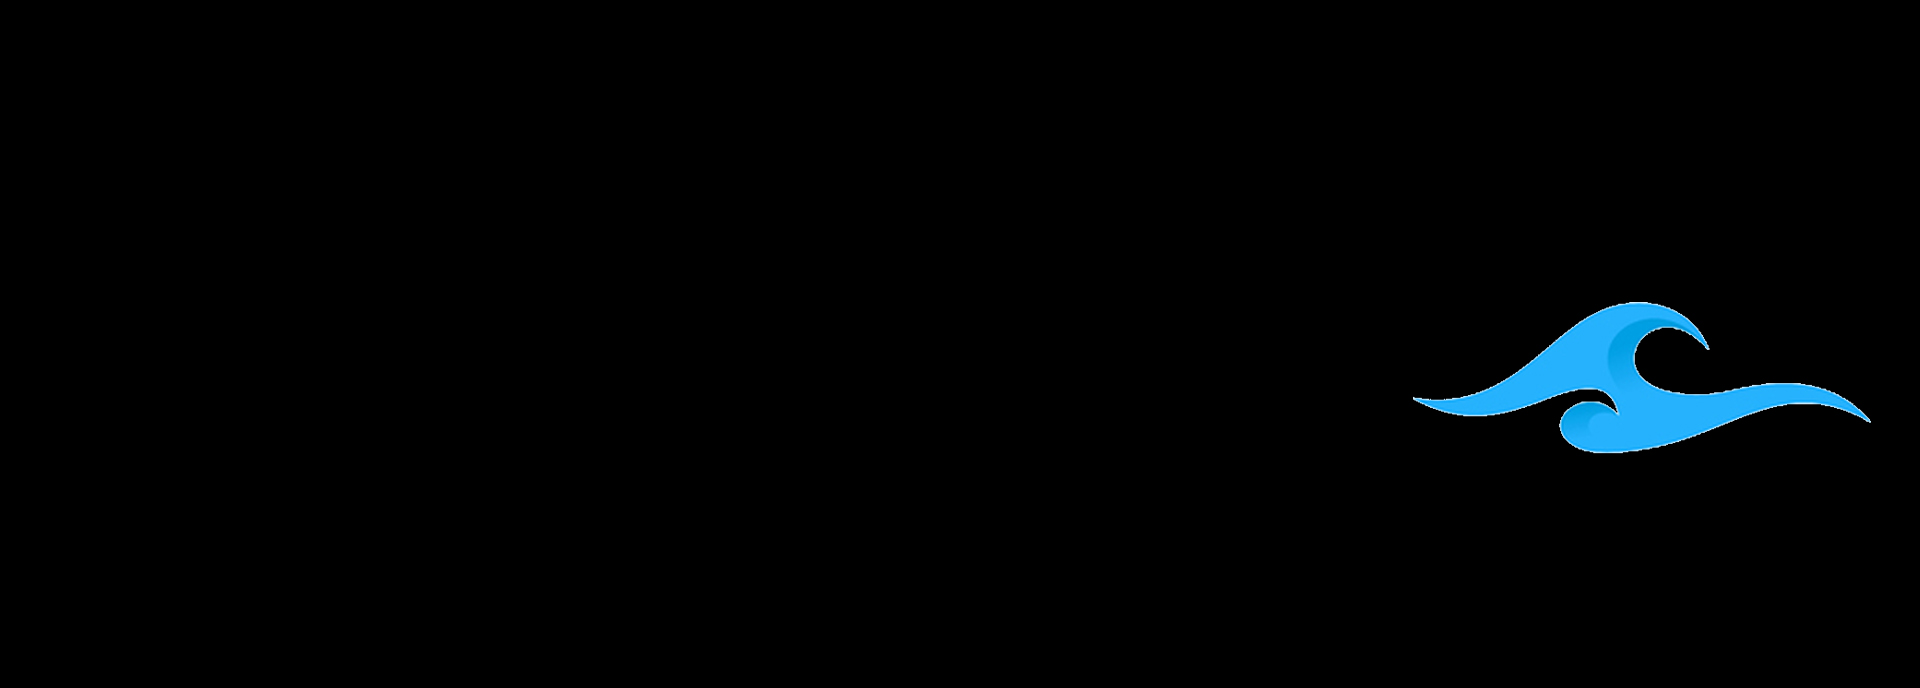
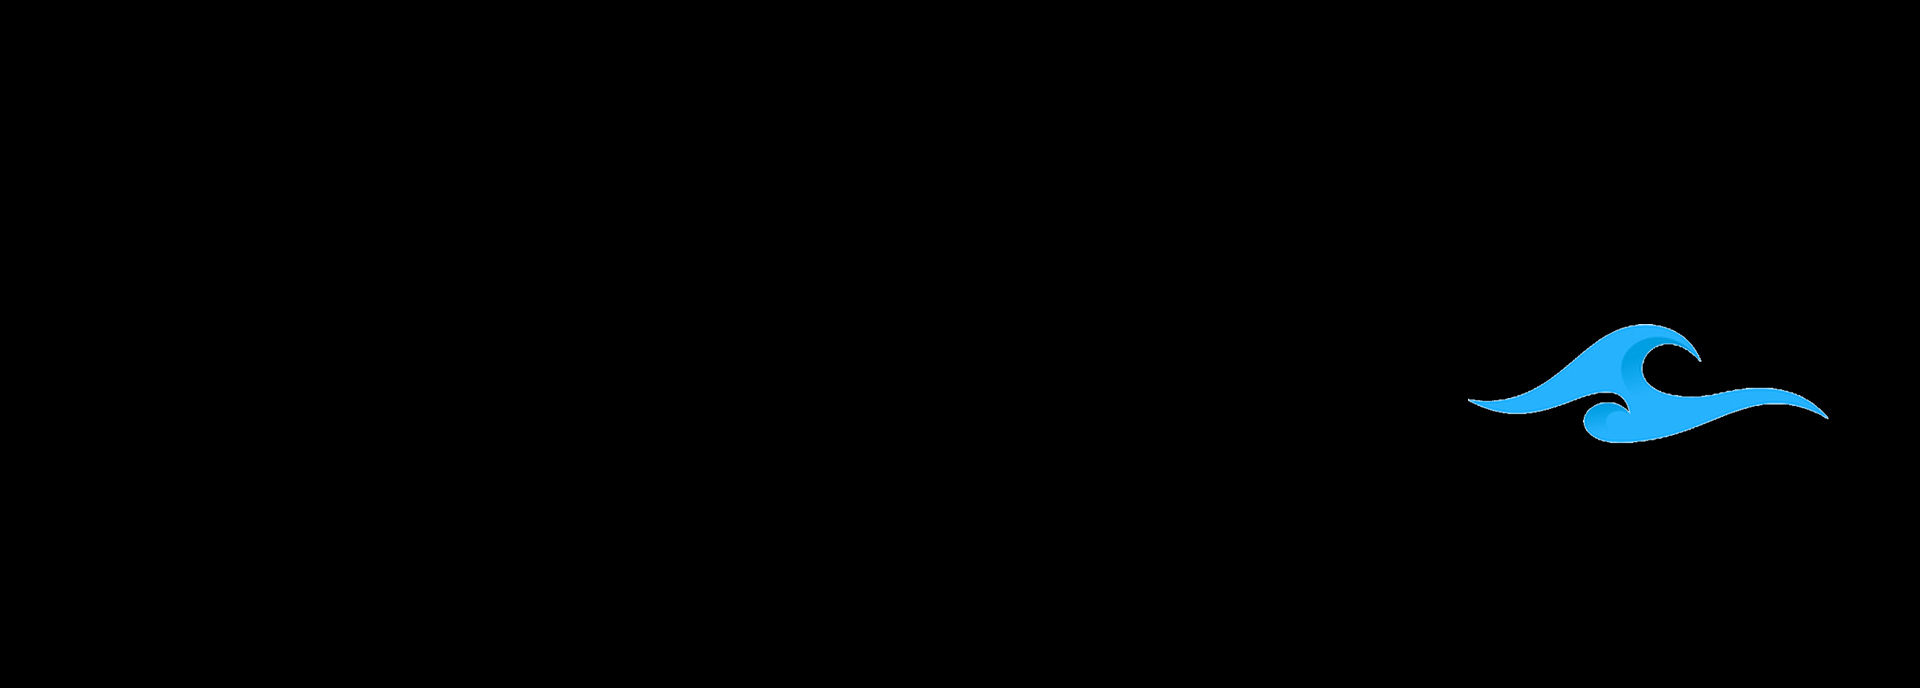
Cambios en la portada y en el color principal

Changed region(s): [[0.7188, 0.4273, 0.9688, 0.6715]]

diff --git a/css/estilo.css b/css/estilo.css
@@ -1,14 +1,14 @@
 @charset "UTF-8";
 .sLettering {
-  border: 3px solid #106eea;
+  border: 3px solid #26b2fd;
 }
 
 .SdisenioGrafico {
-  border: 3px solid #106eea;
+  border: 3px solid #26b2fd;
 }
 
 .sIlustracion {
-  border: 3px solid #106eea;
+  border: 3px solid #26b2fd;
 }
 
 /*--------------------------------------------------------------
@@ -20,7 +20,7 @@ body {
 }
 
 a {
-  color: #106eea;
+  color: #26b2fd;
 }
 
 a:hover {
@@ -55,7 +55,7 @@ h1, h2, h3, h4, h5, h6 {
   position: fixed;
   top: calc(50% - 30px);
   left: calc(50% - 30px);
-  border: 6px solid #106eea;
+  border: 6px solid #26b2fd;
   border-top-color: #e2eefd;
   border-radius: 50%;
   width: 60px;
@@ -98,7 +98,7 @@ h1, h2, h3, h4, h5, h6 {
   width: 40px;
   height: 40px;
   border-radius: 4px;
-  background: #106eea;
+  background: #26b2fd;
   color: #fff;
   transition: all 0.4s;
 }
@@ -119,7 +119,7 @@ h1, h2, h3, h4, h5, h6 {
 # Top Bar
 --------------------------------------------------------------*/
 #topbar {
-  background: #106eea;
+  background: #26b2fd;
   height: 40px;
   font-size: 14px;
   transition: all 0.5s;
@@ -226,7 +226,7 @@ h1, h2, h3, h4, h5, h6 {
   height: 2px;
   bottom: -5px;
   left: 0;
-  background-color: #106eea;
+  background-color: #26b2fd;
   visibility: hidden;
   width: 0px;
   transition: all 0.3s ease-in-out 0s;
@@ -242,21 +242,21 @@ h1, h2, h3, h4, h5, h6 {
   font-family: "Open Sans", sans-serif;
 }
 .nav-menu a:hover {
-  color: #106eea;
+  color: #26b2fd;
 }
 .nav-menu a:hover:before {
   visibility: visible;
   width: 100%;
 }
 .nav-menu li:hover > a {
-  color: #106eea;
+  color: #26b2fd;
 }
 .nav-menu li:hover > a:before {
   visibility: visible;
   width: 100%;
 }
 .nav-menu .active > a {
-  color: #106eea;
+  color: #26b2fd;
 }
 .nav-menu .active > a:before {
   visibility: visible;
@@ -283,13 +283,13 @@ h1, h2, h3, h4, h5, h6 {
   color: #062b5b;
 }
 .nav-menu .drop-down ul a:hover {
-  color: #106eea;
+  color: #26b2fd;
 }
 .nav-menu .drop-down ul .active > a {
-  color: #106eea;
+  color: #26b2fd;
 }
 .nav-menu .drop-down ul li:hover > a {
-  color: #106eea;
+  color: #26b2fd;
 }
 .nav-menu .drop-down:hover > ul {
   opacity: 1;
@@ -339,7 +339,7 @@ h1, h2, h3, h4, h5, h6 {
   text-align: right;
 }
 .mobile-nav-toggle i {
-  color: #106eea;
+  color: #26b2fd;
 }
 
 .mobile-nav {
@@ -373,15 +373,15 @@ h1, h2, h3, h4, h5, h6 {
   outline: none;
 }
 .mobile-nav a:hover {
-  color: #106eea;
+  color: #26b2fd;
   text-decoration: none;
 }
 .mobile-nav .active > a {
-  color: #106eea;
+  color: #26b2fd;
   text-decoration: none;
 }
 .mobile-nav li:hover > a {
-  color: #106eea;
+  color: #26b2fd;
   text-decoration: none;
 }
 .mobile-nav .drop-down > a {
@@ -471,7 +471,7 @@ h1, h2, h3, h4, h5, h6 {
   font-family: "Poppins", sans-serif;
 }
 #portada h1 span {
-  color: #106eea;
+  color: #26b2fd;
 }
 #portada h2 {
   color: #fff;
@@ -490,7 +490,7 @@ h1, h2, h3, h4, h5, h6 {
   border-radius: 4px;
   transition: 0.5s;
   color: #fff;
-  background: #106eea;
+  background: #26b2fd;
 }
 #portada .btn-get-started:hover {
   background: #3b8af2;
@@ -506,7 +506,7 @@ h1, h2, h3, h4, h5, h6 {
   font-weight: 600;
 }
 #portada .btn-watch-video i {
-  color: #106eea;
+  color: #26b2fd;
   font-size: 32px;
   position: absolute;
   left: 0;
@@ -514,7 +514,7 @@ h1, h2, h3, h4, h5, h6 {
   transition: 0.3s;
 }
 #portada .btn-watch-video:hover {
-  color: #106eea;
+  color: #26b2fd;
 }
 #portada .btn-watch-video:hover i {
   color: #3b8af2;
@@ -579,7 +579,7 @@ section {
   padding: 8px 20px;
   margin: 0;
   background: #e7f1fd;
-  color: #106eea;
+  color: #26b2fd;
   display: inline-block;
   text-transform: uppercase;
   border-radius: 50px;
@@ -590,7 +590,7 @@ section {
   font-weight: 700;
 }
 .section-title h3 span {
-  color: #106eea;
+  color: #26b2fd;
 }
 .section-title p {
   margin: 15px auto 0 auto;
@@ -684,7 +684,7 @@ section {
 
 .servicio .box h4 {
   font-size: 36px;
-  color: #106eea;
+  color: #26b2fd;
   font-weight: 600;
   font-family: "Poppins", sans-serif;
   margin-bottom: 20px;
@@ -716,7 +716,7 @@ section {
 }
 
 .servicio .box ul i {
-  color: #106eea;
+  color: #26b2fd;
   font-size: 18px;
   padding-right: 4px;
 }
@@ -728,7 +728,7 @@ section {
 
 .servicio .featured h3 {
   color: #fff;
-  background: #106eea;
+  background: #26b2fd;
 }
 
 .servicio .advanced {
@@ -740,7 +740,7 @@ section {
   z-index: 1;
   font-size: 14px;
   padding: 1px 0 3px 0;
-  background: #106eea;
+  background: #26b2fd;
   color: #fff;
 }
 
@@ -793,7 +793,7 @@ section {
   font-size: 24px;
   padding: 20px;
   margin-right: 15px;
-  color: #106eea;
+  color: #26b2fd;
   border-radius: 50px;
 }
 .noticias .content ul h5 {
@@ -918,7 +918,7 @@ section {
 }
 
 .valoraciones .owl-dot.active {
-  background-color: #106eea !important;
+  background-color: #26b2fd !important;
 }
 
 @media (min-width: 1024px) {
@@ -955,13 +955,13 @@ section {
   transition: all 0.3s ease-in-out;
 }
 .portfolio #portfolio-flters li:hover {
-  color: #106eea;
+  color: #26b2fd;
 }
 .portfolio #portfolio-flters li:last-child {
   margin-right: 0;
 }
 .portfolio #portfolio-flters li.filter-active {
-  color: #106eea;
+  color: #26b2fd;
 }
 .portfolio .portfolio-item {
   margin-bottom: 30px;
@@ -996,7 +996,7 @@ section {
   color: #3c3c3c;
 }
 .portfolio .portfolio-item .portfolio-info .preview-link:hover {
-  color: #106eea;
+  color: #26b2fd;
 }
 .portfolio .portfolio-item .portfolio-info .details-link {
   position: absolute;
@@ -1007,7 +1007,7 @@ section {
   right: 10px;
 }
 .portfolio .portfolio-item .portfolio-info .details-link:hover {
-  color: #106eea;
+  color: #26b2fd;
 }
 .portfolio .portfolio-item .portfolio-links {
   opacity: 0;
@@ -1119,7 +1119,7 @@ section {
 }
 .contact .info-box i {
   font-size: 32px;
-  color: #106eea;
+  color: #26b2fd;
   border-radius: 50%;
   padding: 8px;
   border: 2px dotted #b3d1fa;
@@ -1191,7 +1191,7 @@ section {
   padding: 20px 15px;
 }
 .contact .php-email-form input:focus {
-  border-color: #106eea;
+  border-color: #26b2fd;
 }
 .contact .php-email-form textarea {
   border-radius: 0;
@@ -1200,10 +1200,10 @@ section {
   padding: 12px 15px;
 }
 .contact .php-email-form textarea:focus {
-  border-color: #106eea;
+  border-color: #26b2fd;
 }
 .contact .php-email-form button {
-  background: #106eea;
+  background: #26b2fd;
   border: 0;
   padding: 10px 30px;
   color: #fff;

diff --git a/scss/_variables.scss b/scss/_variables.scss
@@ -3,7 +3,7 @@ $fuente-open: "Open Sans", sans-serif;
 $fuente-roboto: "Roboto", sans-serif;
 
 // Colores
-$color-azul: #106eea;
+$color-azul: #26b2fd;;
 $color-azulHover: #3b8af2;
 
 // Mixins
